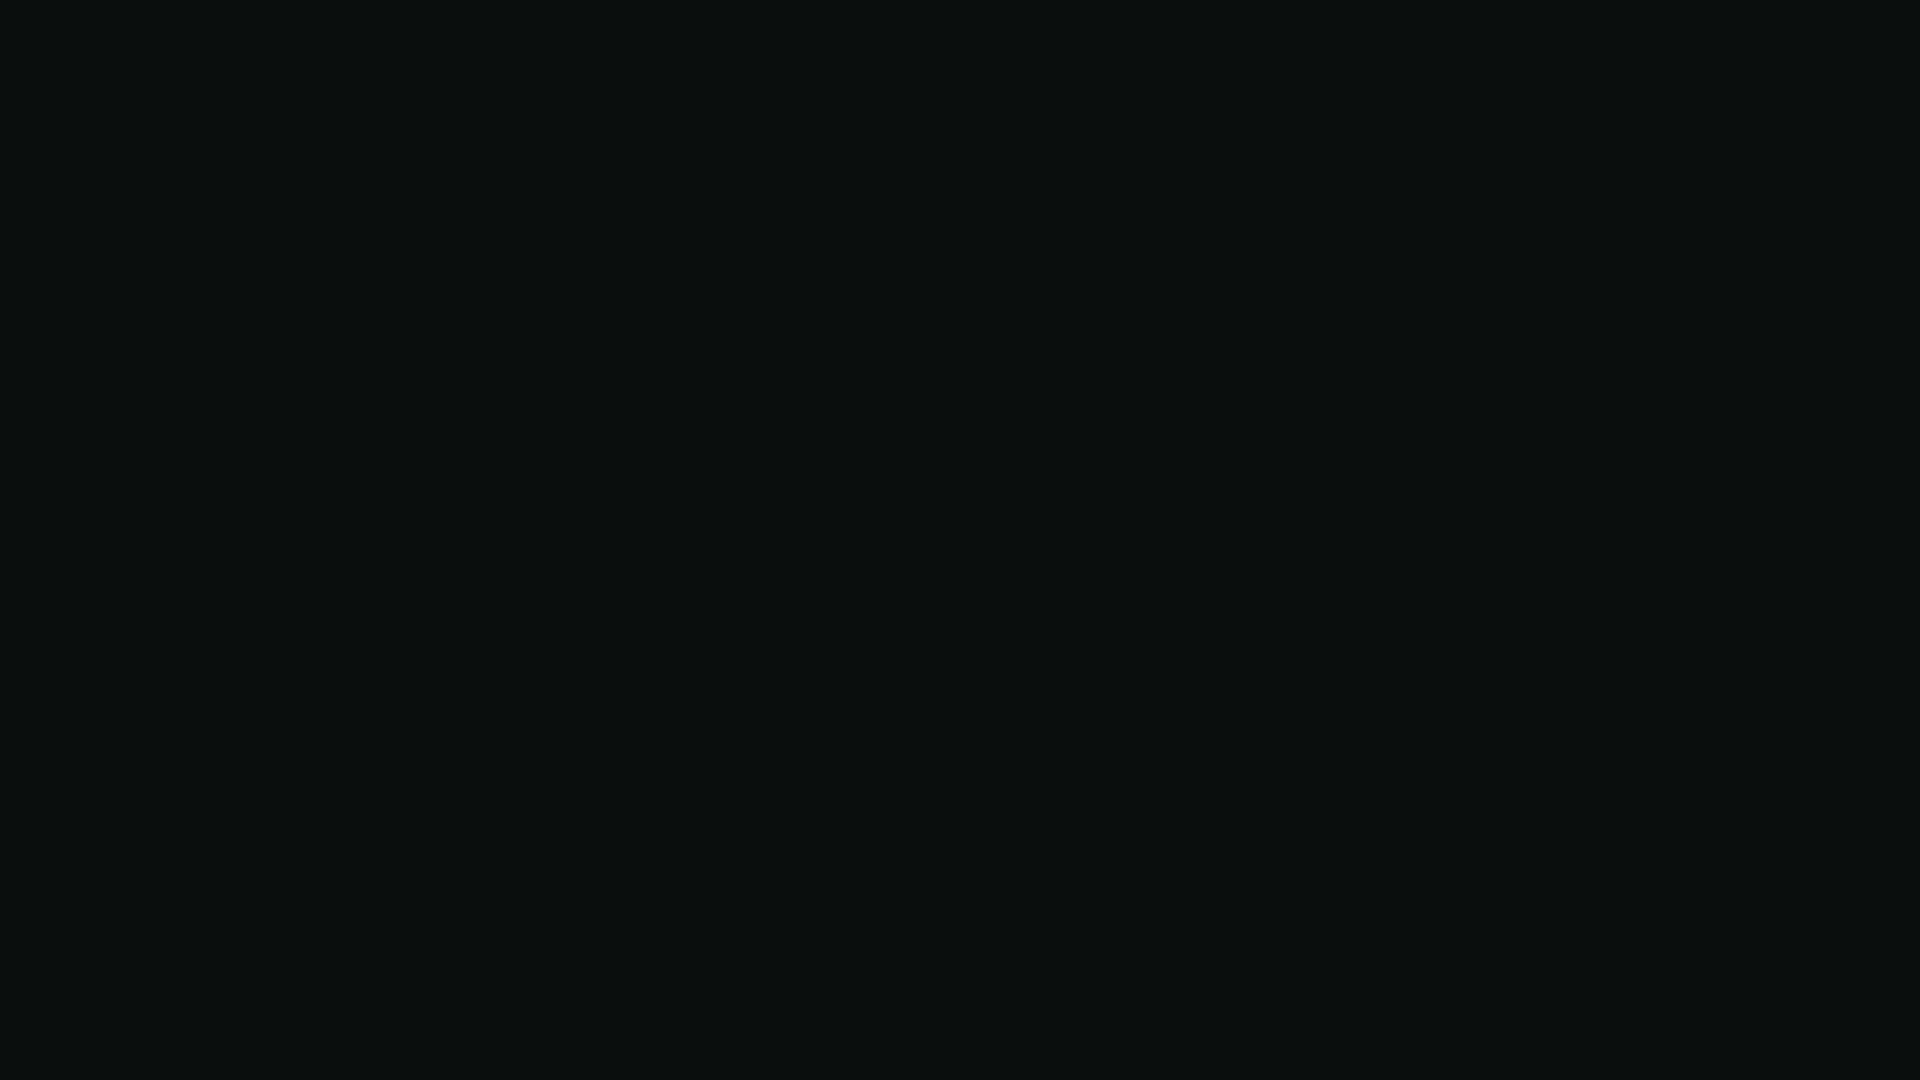
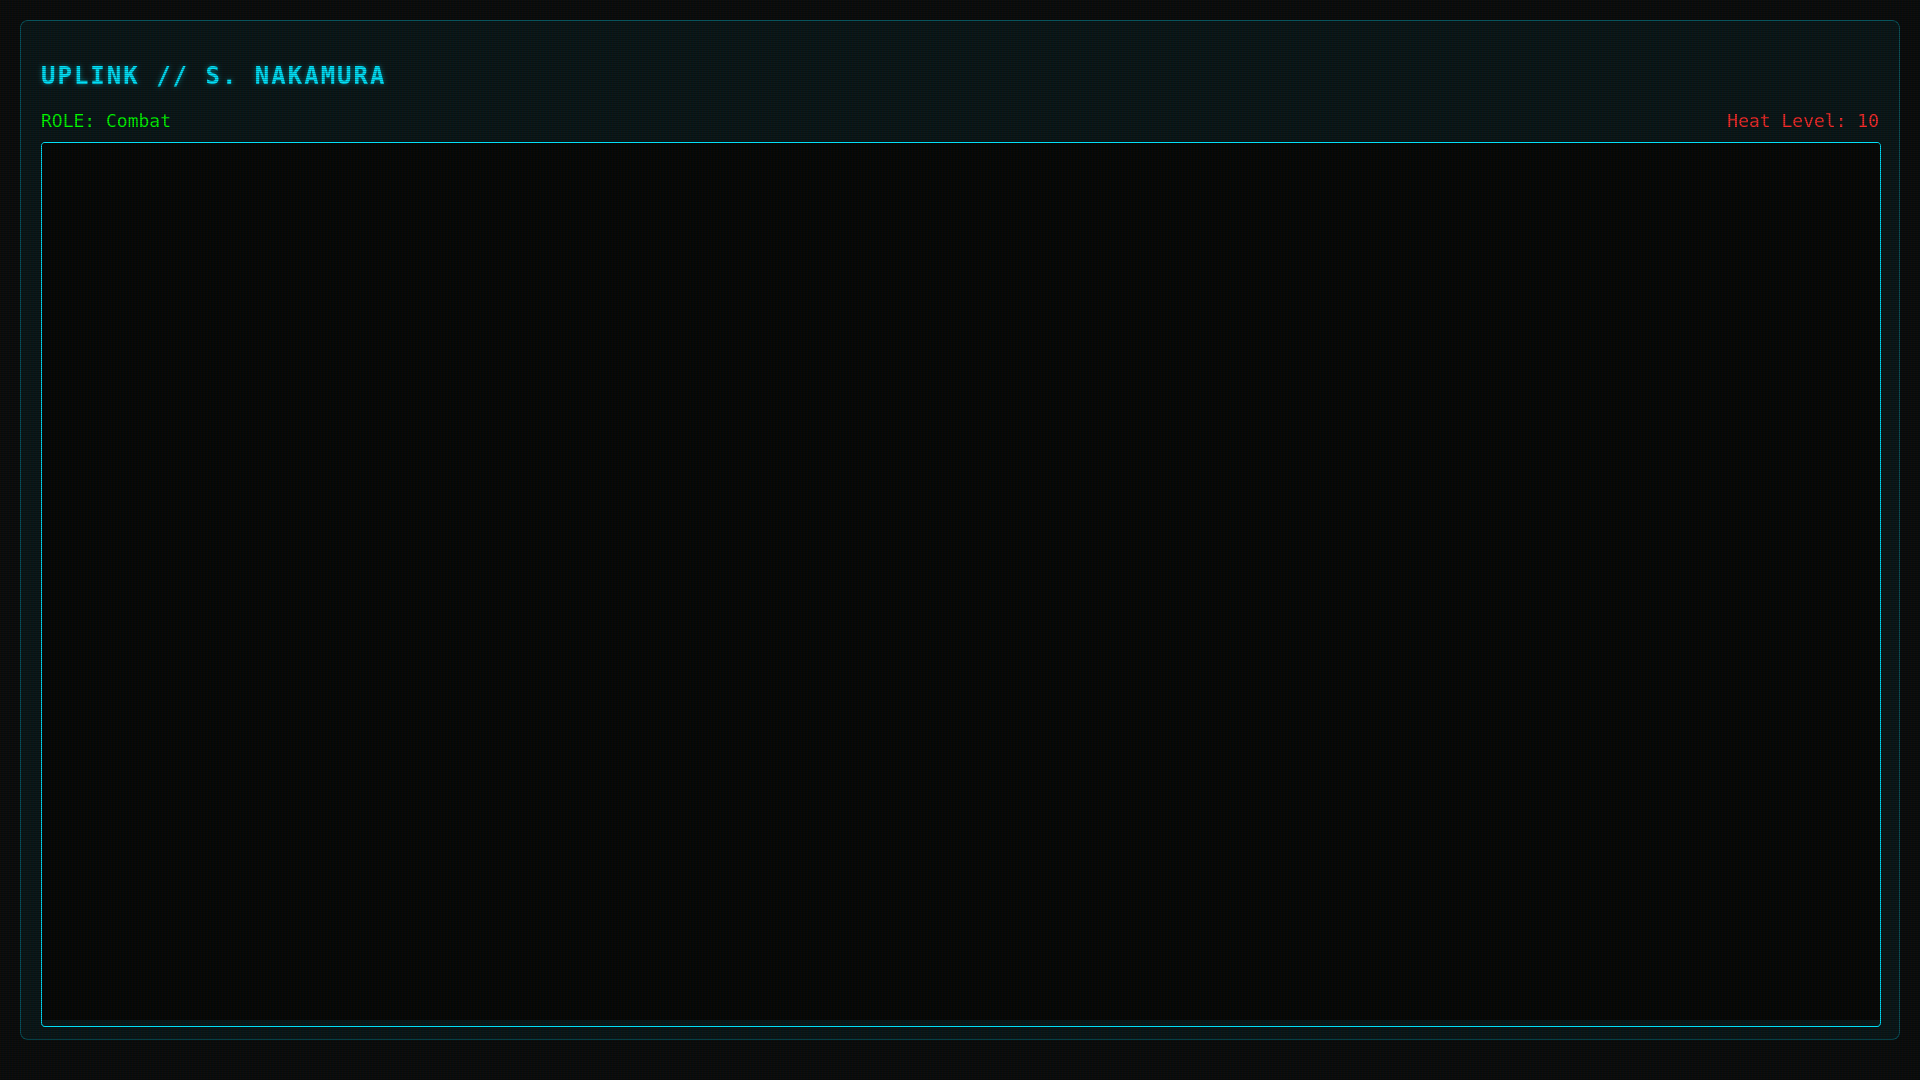
fix: Fix TS compilation error in PixiMapComponent and update screenshots

Changed region(s): [[0.0, 0.0611, 0.2188, 0.1222], [0.9062, 0.0917, 0.9375, 0.1222]]

diff --git a/web-app/src/app/pixi-map.component.ts b/web-app/src/app/pixi-map.component.ts
@@ -24,7 +24,7 @@ export class PixiMapComponent implements AfterViewInit, OnDestroy {
   
   private sprites: Record<string, PIXI.Sprite | PIXI.Graphics> = {};
   private roomGraphics: Record<string, PIXI.Graphics> = {};
-  private charGraphics: Record<string, PIXI.Graphics> = {};
+  private charGraphics: Record<string, PIXI.Graphics | PIXI.Text> = {};
 
   constructor() {
     effect(() => {